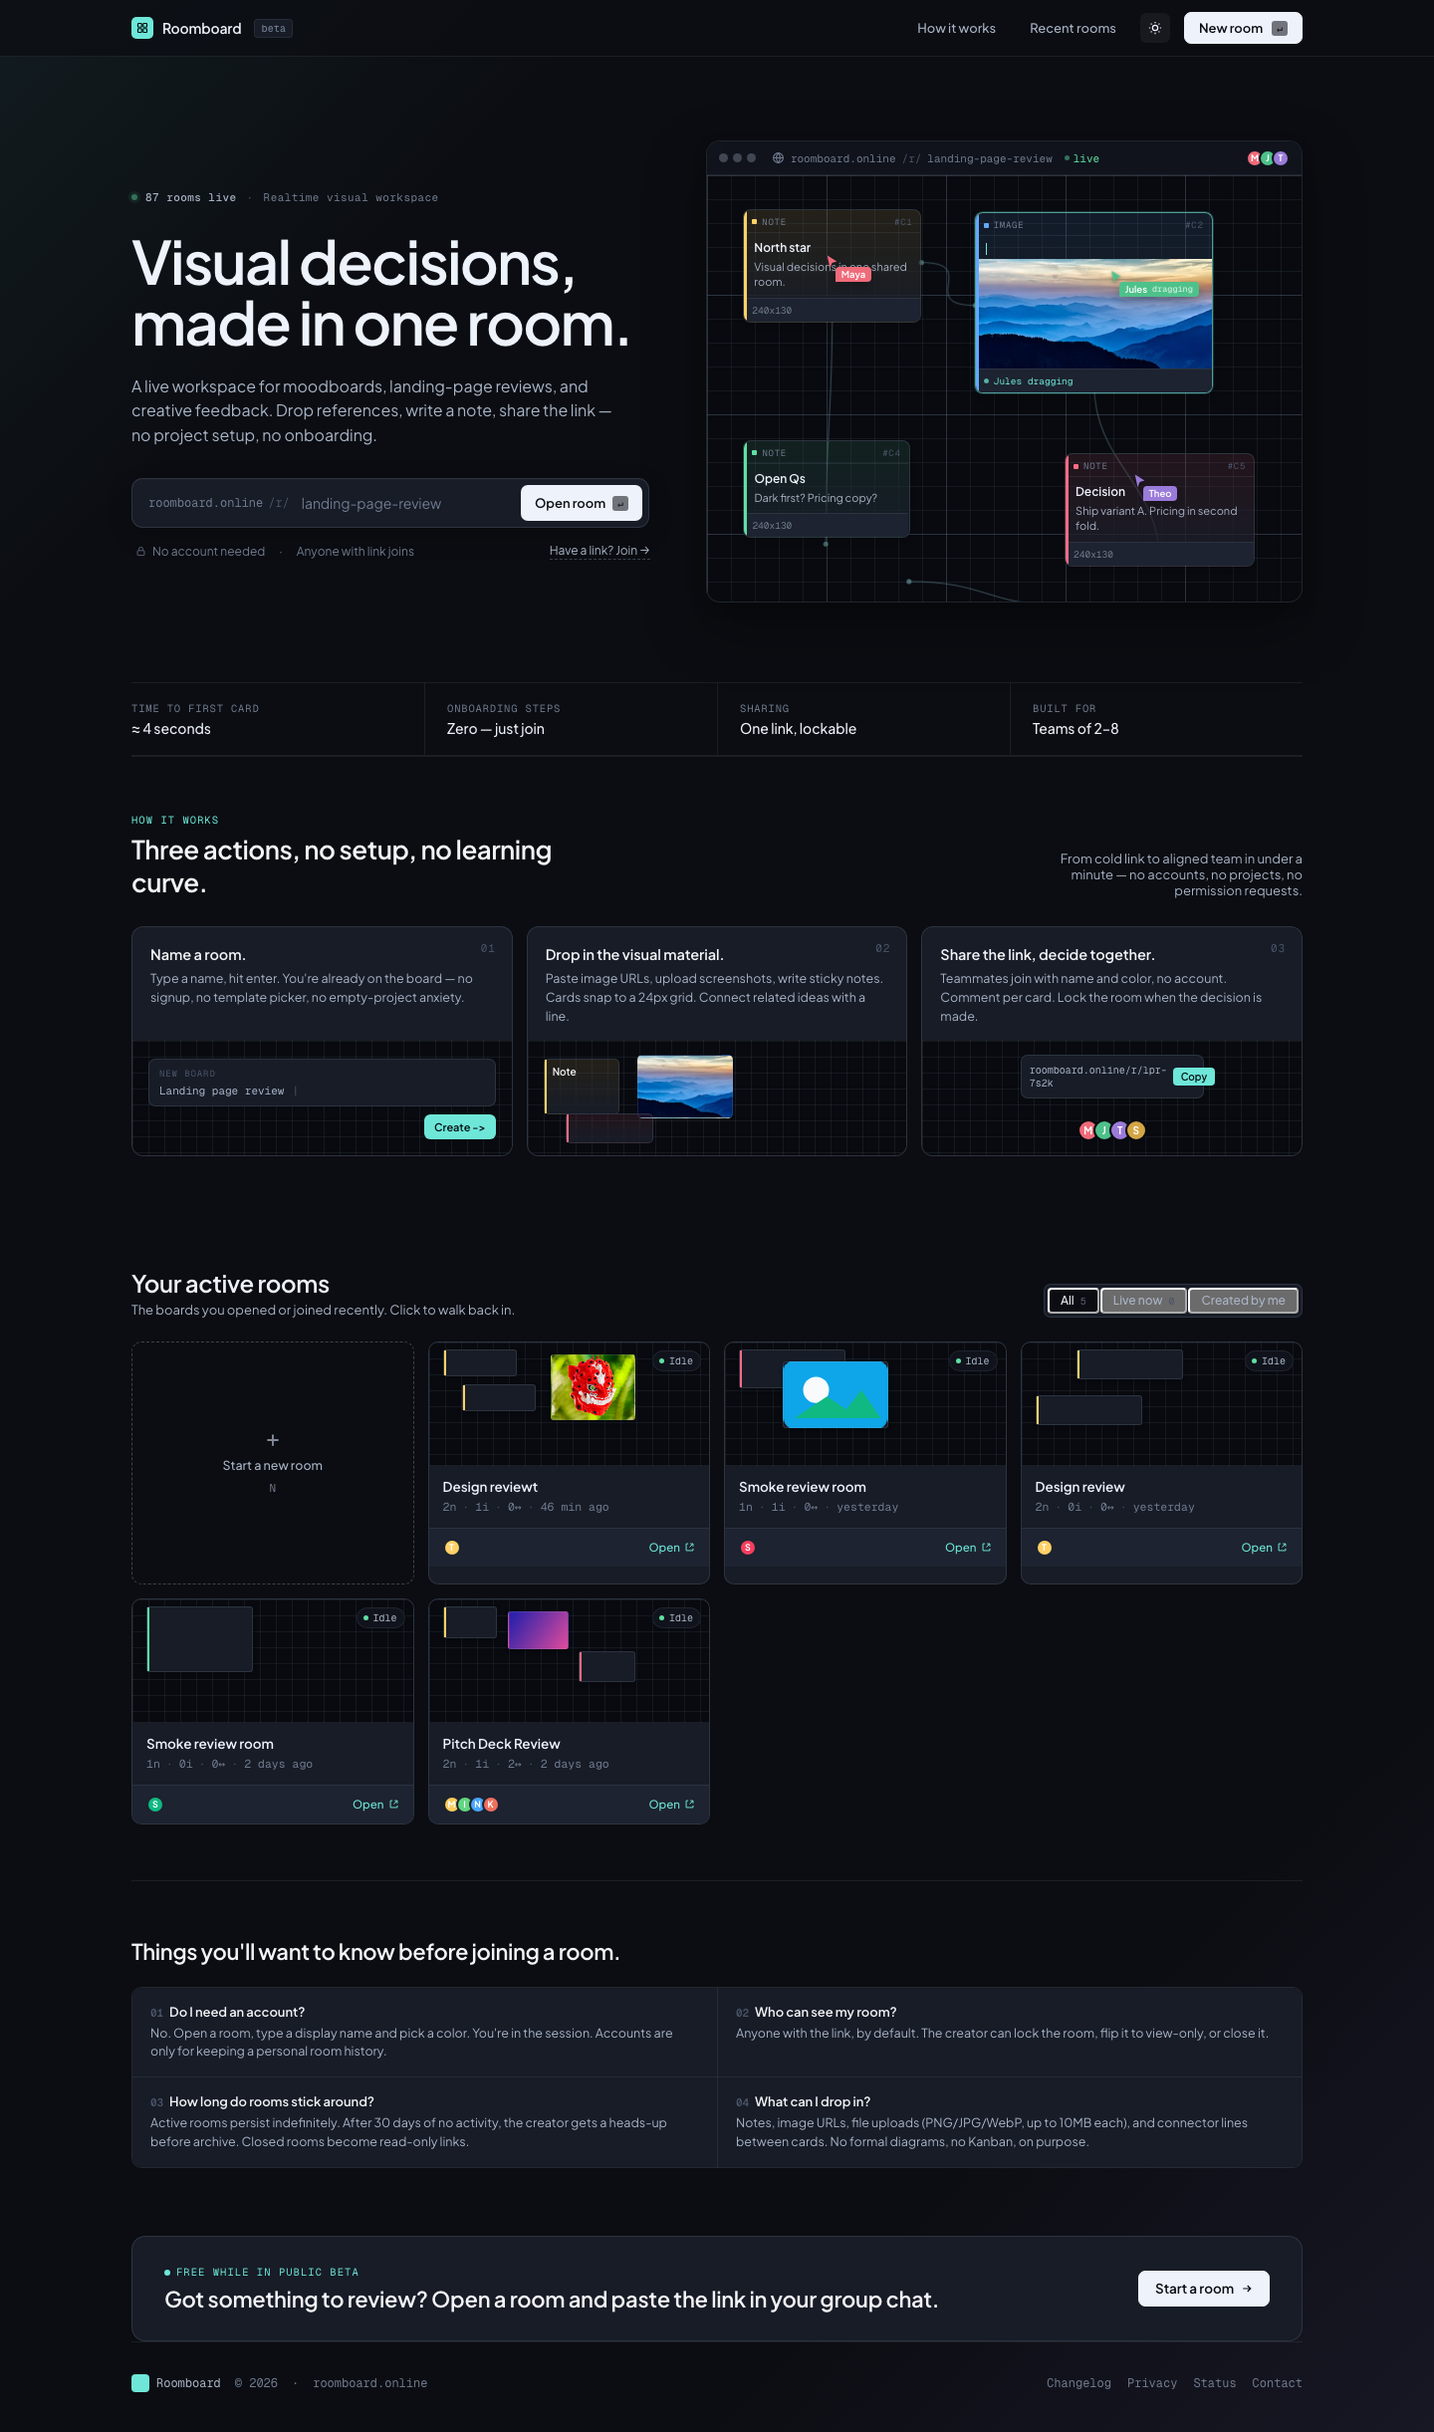
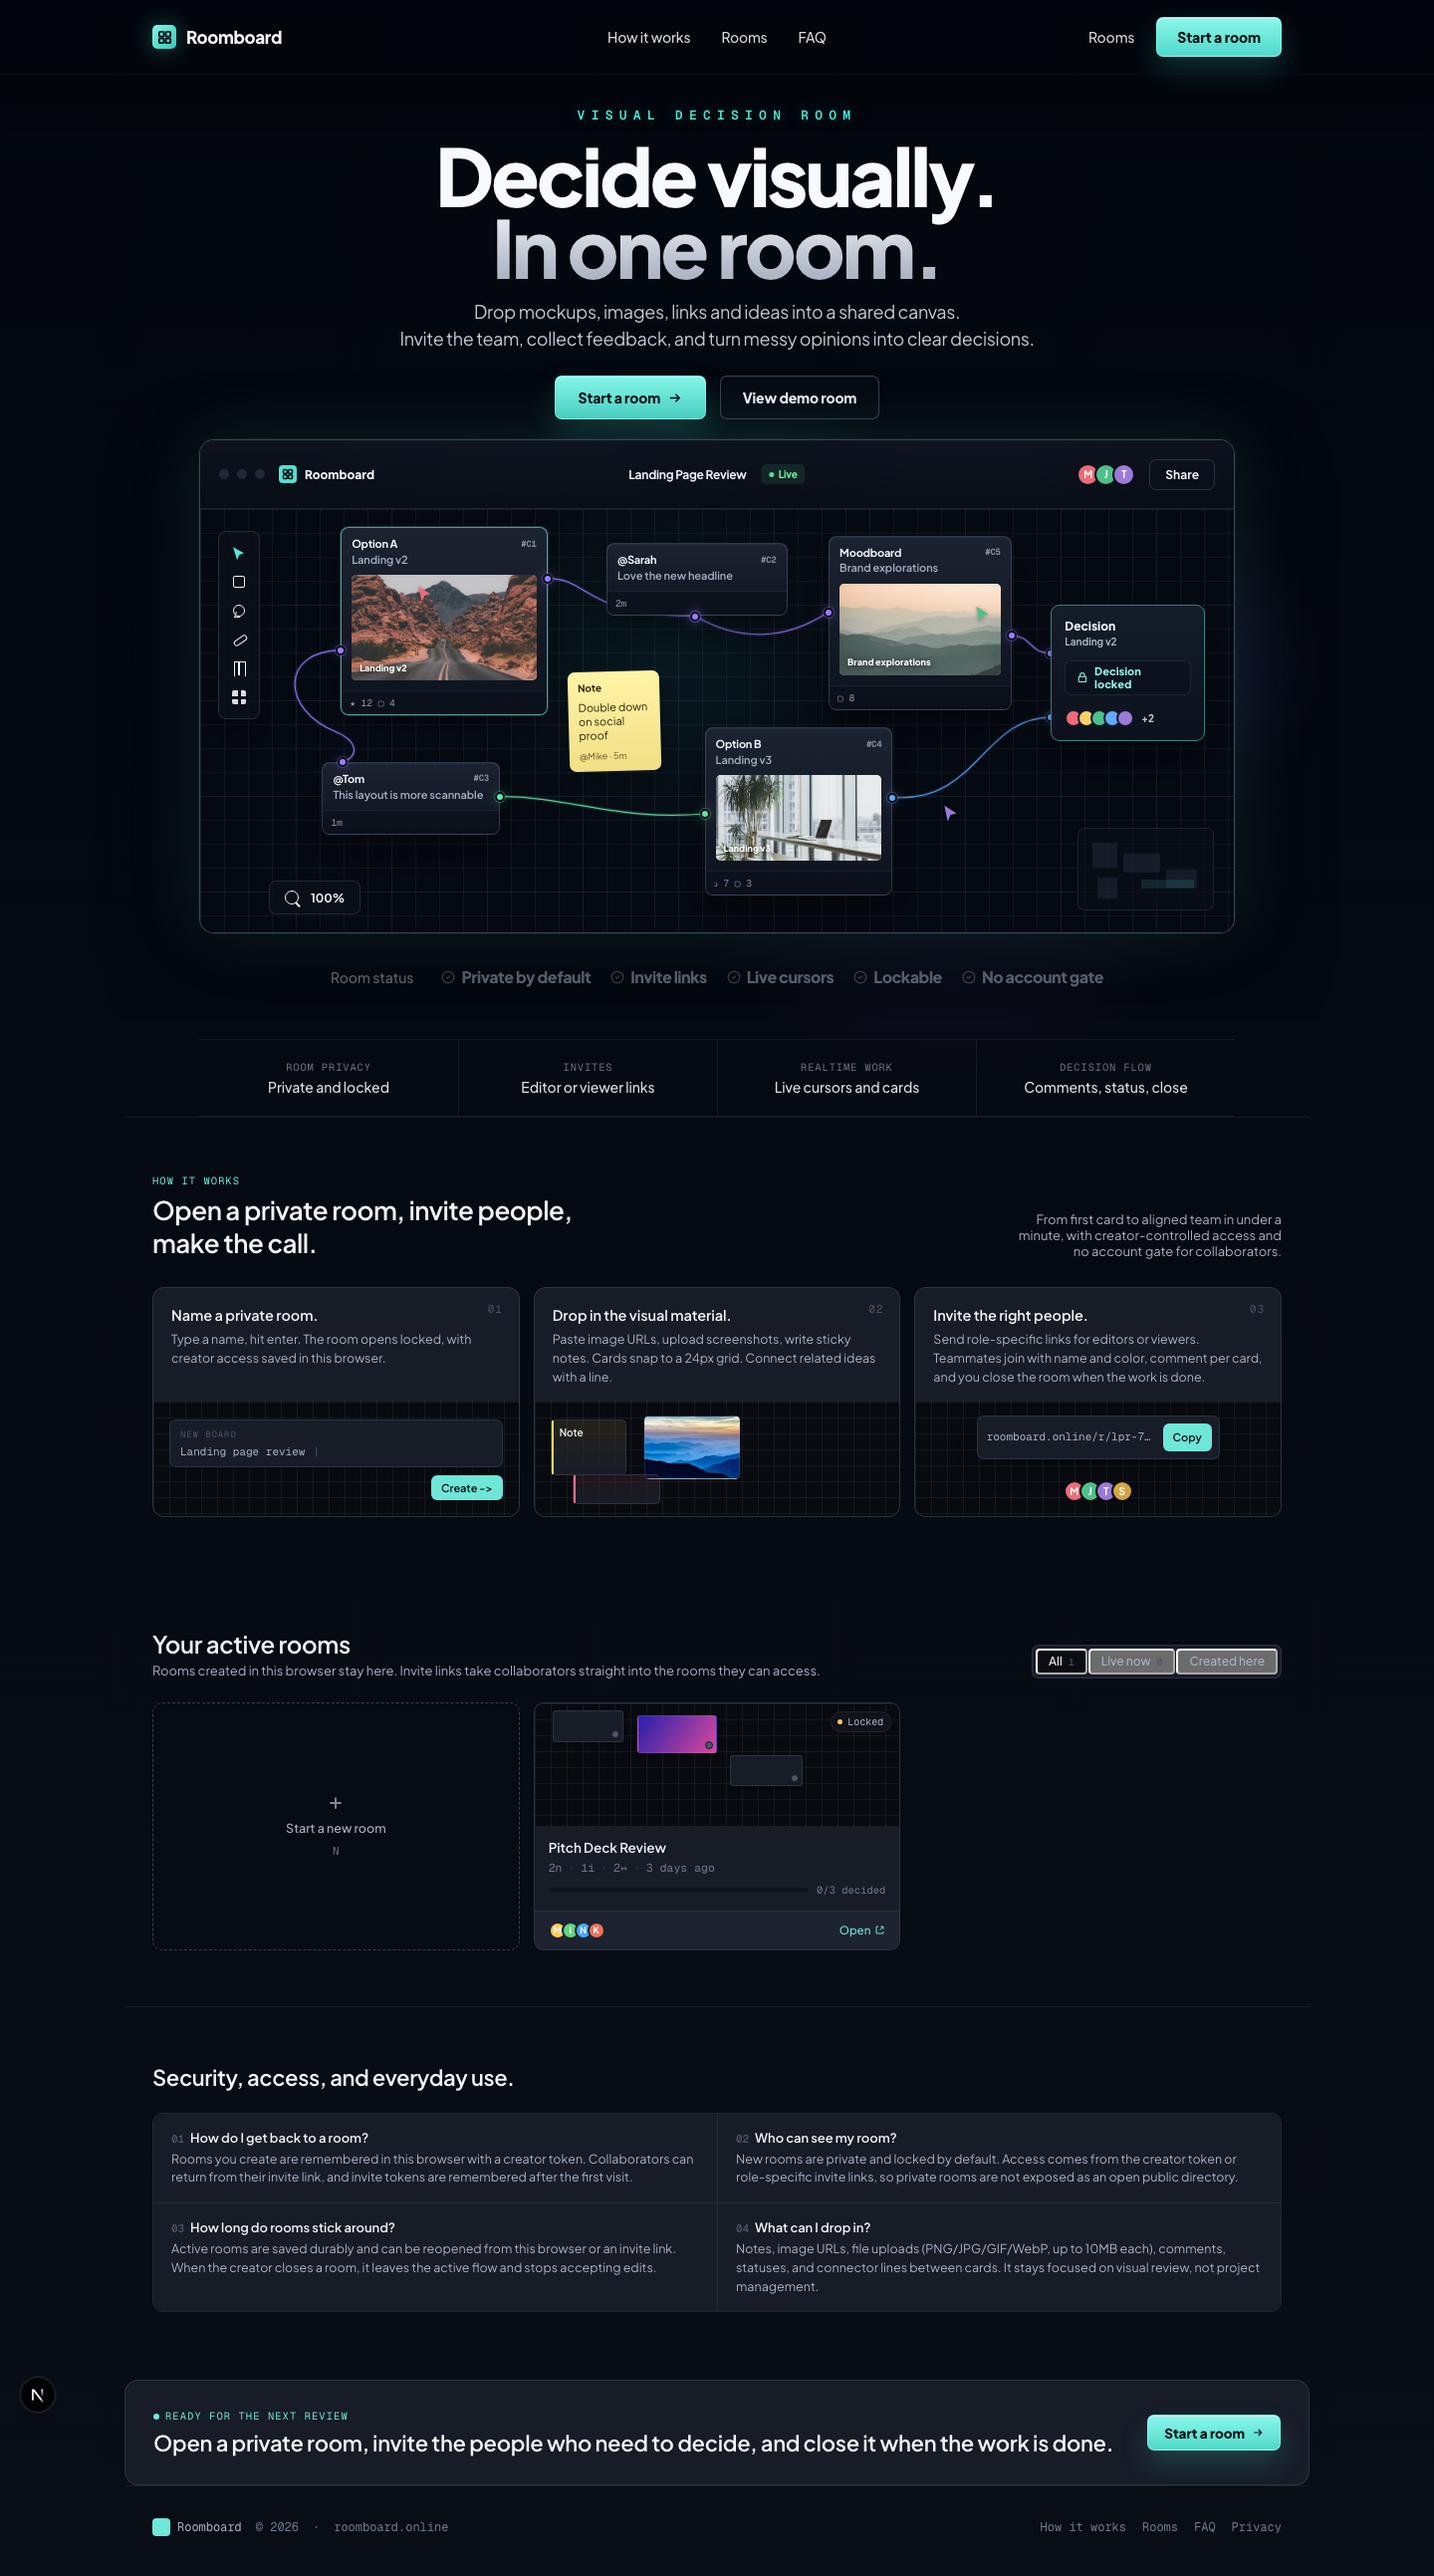
feat: refresh Roomboard portfolio case

diff --git a/src/lib/data.ts b/src/lib/data.ts
@@ -120,7 +120,7 @@ export const MORE: Project[] = [
     role: "Solo · Product Design + Eng",
     title: "Roomboard",
     blurb:
-      "A live realtime collaboration room for moodboards, landing-page reviews, and creative decisions, open at roomboard.online. Drop images, write notes, add comments, link cards, and share one lockable room URL.",
+      "A private-by-default visual decision room for landing-page reviews, moodboards, and creative feedback. Open a room, invite editors or viewers, comment on cards, and close the loop.",
     tags: ["Next.js 16", "React 19", "Pixi.js", "Elixir/Phoenix", "Supabase", "Realtime", "Canvas UX"],
     links: [
       { label: "roomboard.online", href: "https://roomboard.online" },

diff --git a/src/components/roomboard-screens.tsx b/src/components/roomboard-screens.tsx
@@ -8,7 +8,7 @@ const SCREENS = {
     src: "/work/roomboard/landing-hero.png",
     aspect: "aspect-[16/9]",
     caption:
-      "The landing page explains the product through the real object: a room, a shared board, and the promise of no-account visual collaboration.",
+      "The landing page explains the product through the real object: a private room, a shared board, and role-specific invite links.",
   },
   canvas: {
     src: "/work/roomboard/canvas-room.png",
